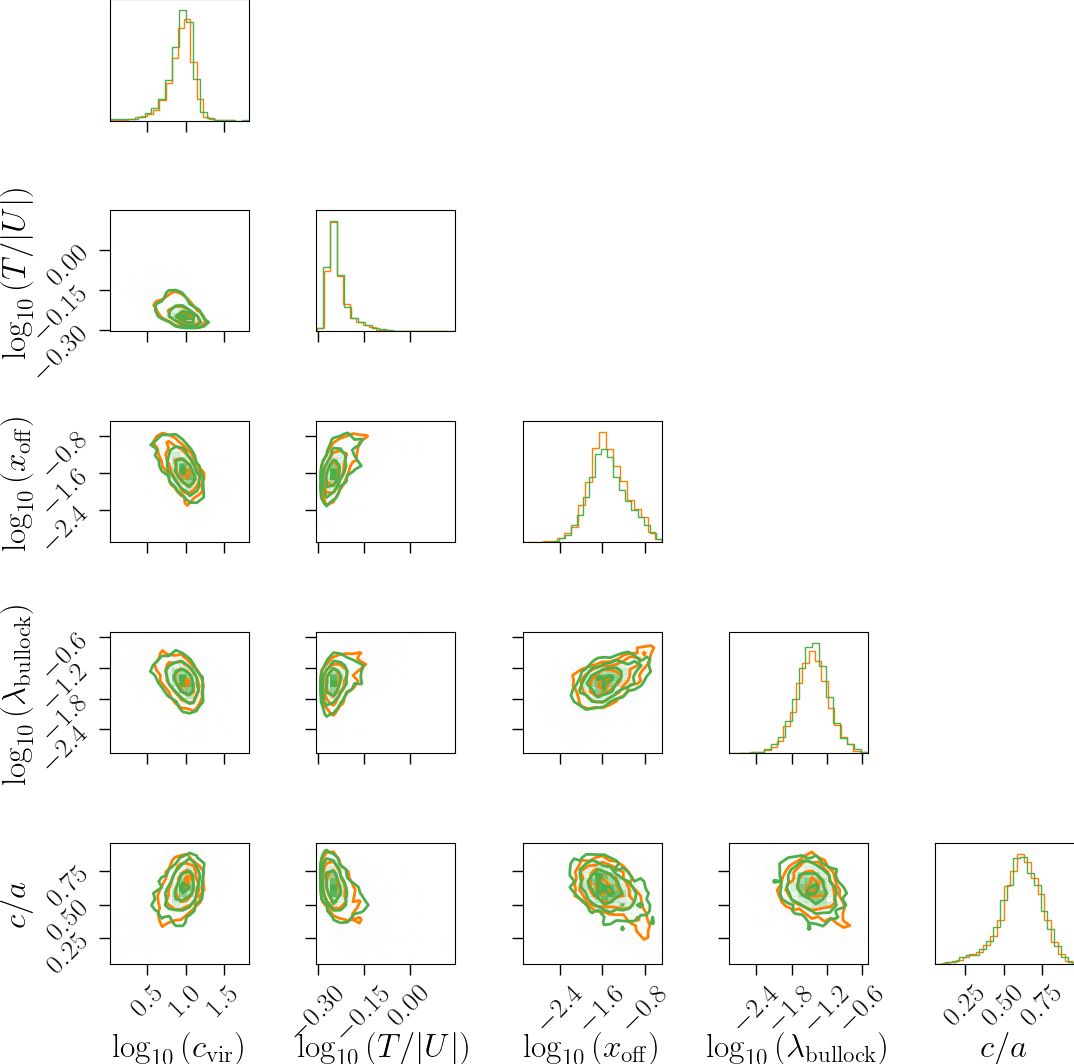
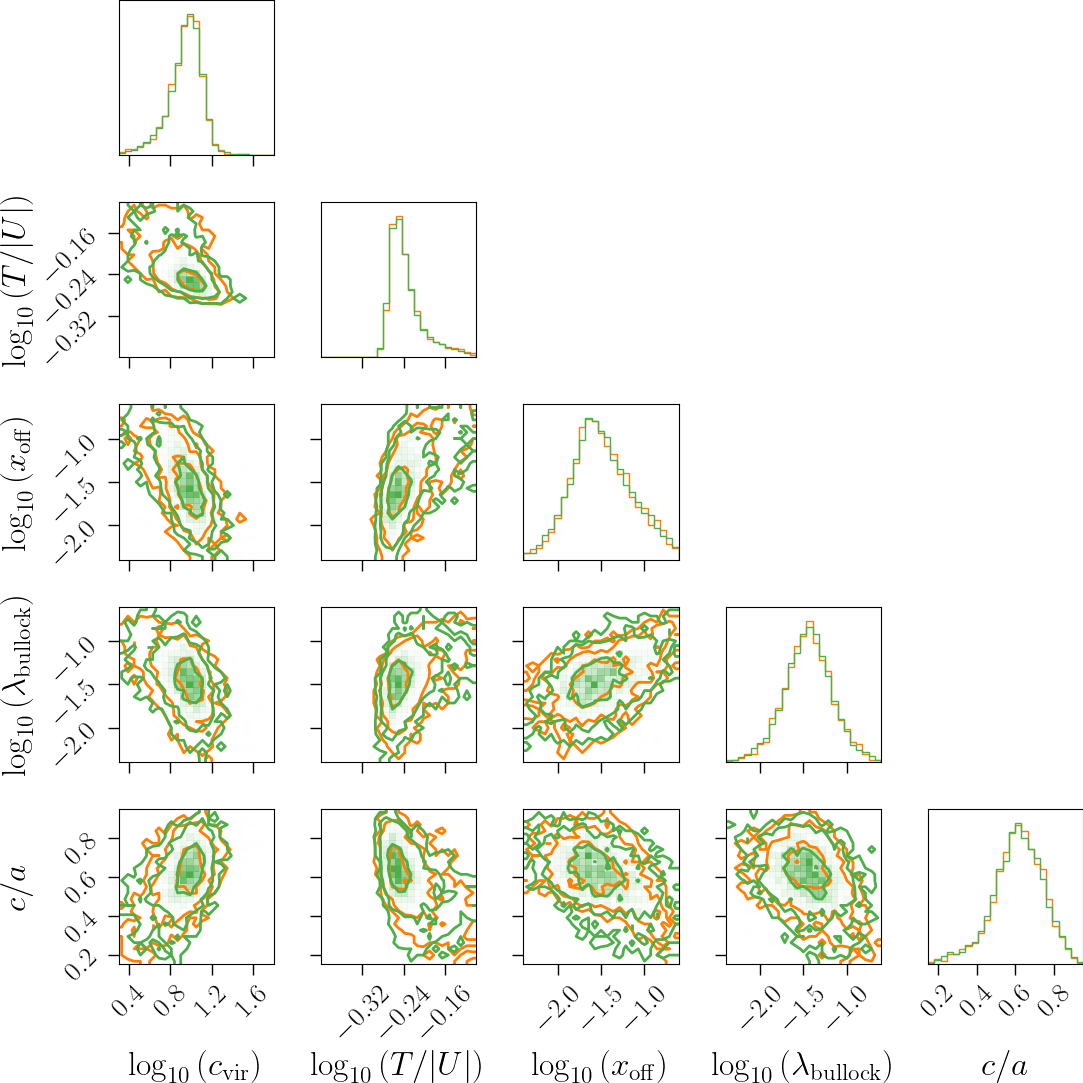
options for ranges and bins in triangle plot

diff --git a/bin/figures.py b/bin/figures.py
@@ -354,7 +354,7 @@ class TriangleSamples(Figure):
             "cam": samples_cam,
         }
 
-    def transform(self, y):
+    def _transform(self, y):
         y_new = np.zeros_like(y)
         for ii in range(y.shape[1]):
             y_new[:, ii] = np.log10(y[:, ii]) if self.which_log[ii] else y[:, ii]
@@ -370,10 +370,21 @@ class TriangleSamples(Figure):
             for ii, label in enumerate(labels)
         ]
         y_true = data.pop("truth")
-        y1 = self.transform(y_true)
-        y2 = self.transform(data["multigauss"])
+        y1 = self._transform(y_true)
+        y2 = self._transform(data["multigauss"])
+        levels = [1 - np.exp(-(x**2) / 2) for x in [1, 2, 3]]
+        ranges = [(0.3, 1.8), (-0.40, -0.10), (-2.4, -0.6), (-2.4, -0.6), (0.15, 0.95)]
+        n_bins = 15
         fig = corner.corner(
-            y1, labels=labels, max_n_ticks=4, color="C1", labelpad=0.2, plot_datapoints=False
+            y1,
+            labels=labels,
+            max_n_ticks=4,
+            color="C1",
+            labelpad=0.2,
+            plot_datapoints=False,
+            levels=levels,
+            range=ranges,
+            bins=n_bins,
         )
         fig = corner.corner(
             y2,
@@ -383,13 +394,16 @@ class TriangleSamples(Figure):
             color="C2",
             labelpad=0.25,
             plot_datapoints=False,
+            levels=levels,
+            range=ranges,
+            bins=n_bins,
         )
         figs["multigauss_triangle"] = fig
 
         # (2) Now a subset set of 3 triangle plots without histograms.
         ndim = len(self.subset_params)
         for name, yest in data.items():
-            y2 = self.transform(yest)
+            y2 = self._transform(yest)
             _y1 = y1[:, self.subset_params]
             _y2 = y2[:, self.subset_params]
             _labels = [labels[ii] for ii in self.subset_params]
